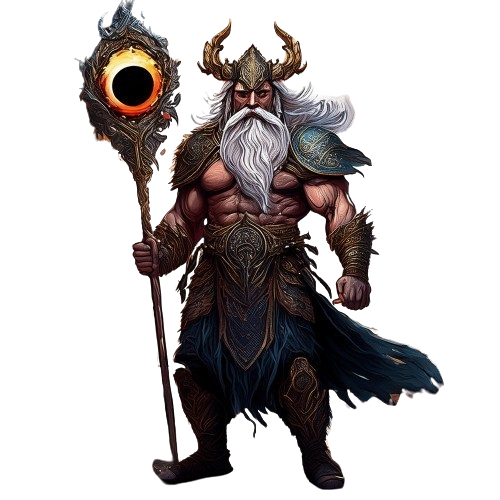
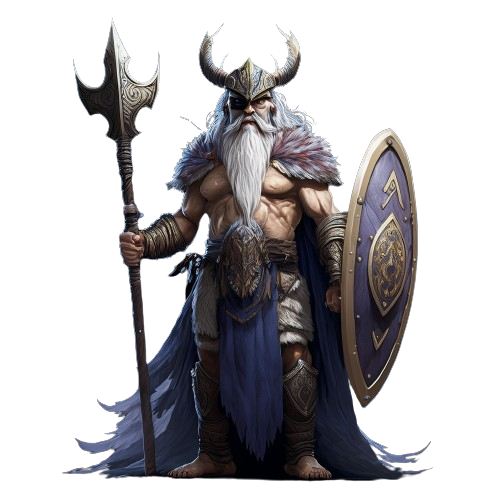
Settings Gear added/Tutorial updated
Added settings gear to access volume and added tutorial button so you can reference tutorial whenever you need to

Updated some tutorial text to better fit with current iteration of the game

diff --git a/index.html b/index.html
@@ -16,7 +16,8 @@
             <div id="relic-container"></div>
             <div id="top-bar-aether">
                 <img style="max-width: 100%; height: auto;" src="imgs/aether-icon.png"><p id="top-bar-aether-number">0</p>
-            </div>           
+            </div>
+            <img id="settings" src="imgs/gear-icon.png">
         </div>
     </header>
     <main>        
@@ -243,7 +244,8 @@
                 <input type="range" min="0" max="1" step="0.01" id="ambience-slider" />  
                 <h3 for="soundfx-slider">Sound Effects Volume</h3>
                 <input type="range" min="0" max="1" step="0.01" id="soundfx-slider" />  
-                <button id="options-screen-exit-button">Exit</button>
+                <button id="options-tutorial-button" style="margin-top: 6rem">Tutorial</button>
+                <button id="options-screen-exit-button" style="margin-top: 1.5rem">Exit</button>
             </div>
         </div>
         <div id="tutorial-container">
@@ -271,7 +273,7 @@
                 </div>
                 <div class="tutorial-icon-div">
                     <img class="tutorial-icon" src="imgs/icons8-gold-bars-64.png" alt="Gold">
-                    <p>A stronger group of enemies await you, but you will be rewarded with more currency than a normal fight.</p>
+                    <p>A stronger group of enemies awaits you, but you will be rewarded with more currency than a normal fight.</p>
                 </div>
                 <div class="tutorial-icon-div">
                     <img class="tutorial-icon" src="imgs/icons8-treasure-chest-50.png" alt="Treasure"> 
@@ -312,7 +314,7 @@
                     <div>
                         <h4 class="tutorial-h-color" style="color: #84e8ff">Ice</h4>
                         <p>Ice cards focus on inflicting frostbite which reduces buffs gained by 50%.</p>
-                        <p>Some cards can help you gain block which helps negate damage.</p>
+                        <p>Some cards help generate more buffs for yourself or even steal buffs from enemies.</p>
                         <p>Ice cards are best against enemies that try to gain buffs rather than attacking each turn.</p>
                     </div>
                     <div>
@@ -324,15 +326,28 @@
                     <h3 class="tutorial-h-color">Support Cards</h3>
                     <div>
                         <h4 class="tutorial-h-color" style="color: #104b79">Water</h4>
-                        <p>Water cards focus on healing.</p>
-                        <p>Some cards activate blood siphon which heals you for 20% of the damage you deal.</p>
-                        <p>Some cards activate regeneration which heals you at the end of each turn.</p>
+                        <p>Water cards focus on healing through regeneration and blood siphon.</p>
+                        <p>Regeneration heals you at the end of each turn.</p>
+                        <p>Blood siphon heals you for 20% of the damage you deal.</p>
                     </div>
                     <div>
                         <h4 class="tutorial-h-color" style="color: #451b04">Earth</h4>
                         <p>Earth cards focus on blocking and gaining thorns.</p>
                         <p>Block prevents damage by shielding your health.</p>
                         <p>Thorns deals damage back to attackers when they directly damage you with an attack.</p>
+                    </div>
+                    <h3 class="tutorial-h-color">Card Types</h3>
+                    <div>
+                        <h4 class="tutorial-h-color">[Ethereal]</h4>
+                        <p>Ethereal cards can only be used once per battle.</p>
+                    </div>
+                    <div>
+                        <h4 class="tutorial-h-color">[Aura]</h4>
+                        <p>Aura cards will be in effect for the entire battle.</p>
+                    </div>
+                    <div>
+                        <h4 class="tutorial-h-color">[Shifting]</h4>
+                        <p>When you play a shifting card, all shifting cards gain damage until the end of the battle.</p>
                     </div>
                 </div>
             </div>

diff --git a/functions.js b/functions.js
@@ -6,21 +6,16 @@ jesus turns water cards to wine cards; set sun background to night 3 times befor
 Shifting cards evolve after reaching a certain damage threshold
 
 TO DO
-Settings gear when hitting escape for music and sound volume
+///Settings gear when hitting escape for music and sound volume
 no wine card art
 fix jesus
-Create tutorial text for ethereal and aura
-///realign all sound effects
-///play sound effects when the spirits appear in mystery()
-///converted all health gains to playerheal function
+///Create tutorial text for ethereal and aura
 
 BUGS
-used cauterize then chain lightning health went NaN
 water wall is healing for full health
 ?deepfreeze update regular text
 ?keep lumaishas enemy health bars black
 ?dynamic update cards windswept isnt working
-?heaven treasure background change in treasure function
 
 */
 /*
@@ -142,6 +137,22 @@ startGame.addEventListener("click", () => {
                 const forestAmbience = new Audio("audio/forest-ambience.wav");
                 switchAmbience(forestAmbience);
                 displayNone(startScreen, document.querySelector("#difficulty-container"));
+                document.getElementById("settings").addEventListener("click", () => {
+                        if ((optionsContainer.style.display == "" || optionsContainer.style.display == "none")) {
+                                displayFlex(optionsContainer);
+                                return;
+                        }
+                        if (optionsContainer.style.display == "flex") {
+                                displayNone(optionsContainer);
+                                return;
+                        }
+                });
+                document.getElementById("settings").addEventListener("mouseover", () => {
+                        document.getElementById("settings").style.opacity = "1";
+                });
+                document.getElementById("settings").addEventListener("mouseout", () => {
+                        document.getElementById("settings").style.opacity = ".6";
+                });
         }
         displayFlex(document.querySelector("#difficulty-container"));
         document.querySelector("#easy").addEventListener("click", () => {
@@ -166,6 +177,12 @@ startGame.addEventListener("mouseout", () => {
         displayNone(arrows[0], arrows[1]);
 });
 tutorial.addEventListener("click", () => {
+        displayFlex(document.querySelector("#tutorial-container"));
+        document.querySelector("#tutorial-exit").addEventListener("click", () => {
+                displayNone(document.querySelector("#tutorial-container"));
+        }, {once: true});
+});
+document.getElementById("options-tutorial-button").addEventListener("click", () => {
         displayFlex(document.querySelector("#tutorial-container"));
         document.querySelector("#tutorial-exit").addEventListener("click", () => {
                 displayNone(document.querySelector("#tutorial-container"));
@@ -7537,7 +7554,7 @@ const enemiesInformation = [
                 name: "Zeus",
                 index: 42,
                 baseHealth: 300,
-                img: "imgs/elite-zeus.png",
+                img: "imgs/elite-zeus2.png",
                 attackChance: 10,
                 attackDamageLow: 20,
                 attackDamageHigh: 30,

diff --git a/styles.css b/styles.css
@@ -10,7 +10,7 @@
     height: 5vh;
     background-color: rgb(63, 92, 100);
     display: none;
-    z-index: 10;
+    z-index: 21;
     color: white;
 }
 #board-header div {
@@ -39,6 +39,12 @@
     height: 48px;
     margin-top: -2px;
 }
+#settings {
+    max-width: 100%;
+    height: auto;
+    opacity: .6;
+    transition: .2s;
+}
 #beginning-screen-container {
     width: 100%;
     height: 100vh;
@@ -46,6 +52,7 @@
     align-items: center;
     justify-content: center;
     background-image: url("imgs/start-screen.jpeg");
+    background-size: cover;
     opacity: .7;
     color: white;
     font-weight: bolder;
@@ -75,13 +82,13 @@
 }
 #start-screen-container h1 {
     padding: 1rem;
-    margin-top: 2rem;
     font-size: 8.5vw;
     text-decoration: dashed;
     cursor: default;
     font-family: fantasy;
     text-shadow: 7px 7px 12px rgb(34, 34, 34);
 }
+
 #start-screen-container h3 {
     margin: 3rem;
     cursor: pointer;
@@ -216,7 +223,6 @@
     text-shadow: 2px 2px 5px rgb(100, 100, 100);
 }
 #options-screen button {
-    margin-top: 12rem;
     width: 400px;
     padding: 15px;
     font-size: 20px;
@@ -255,7 +261,7 @@
     align-items: center;
     justify-content: center;
     cursor: default;
-    z-index: 14;
+    z-index: 21;
 }
 #tutorial-screen {
     width: 90%;
@@ -1309,6 +1315,10 @@
     transform: translateY(0);
 }
 /* EXCLAMATION */
+#exclamation-container {
+    position: absolute;
+    z-index: 10;
+}
 .exclamation-div {
     width: 100%;
     height: 100vh;
